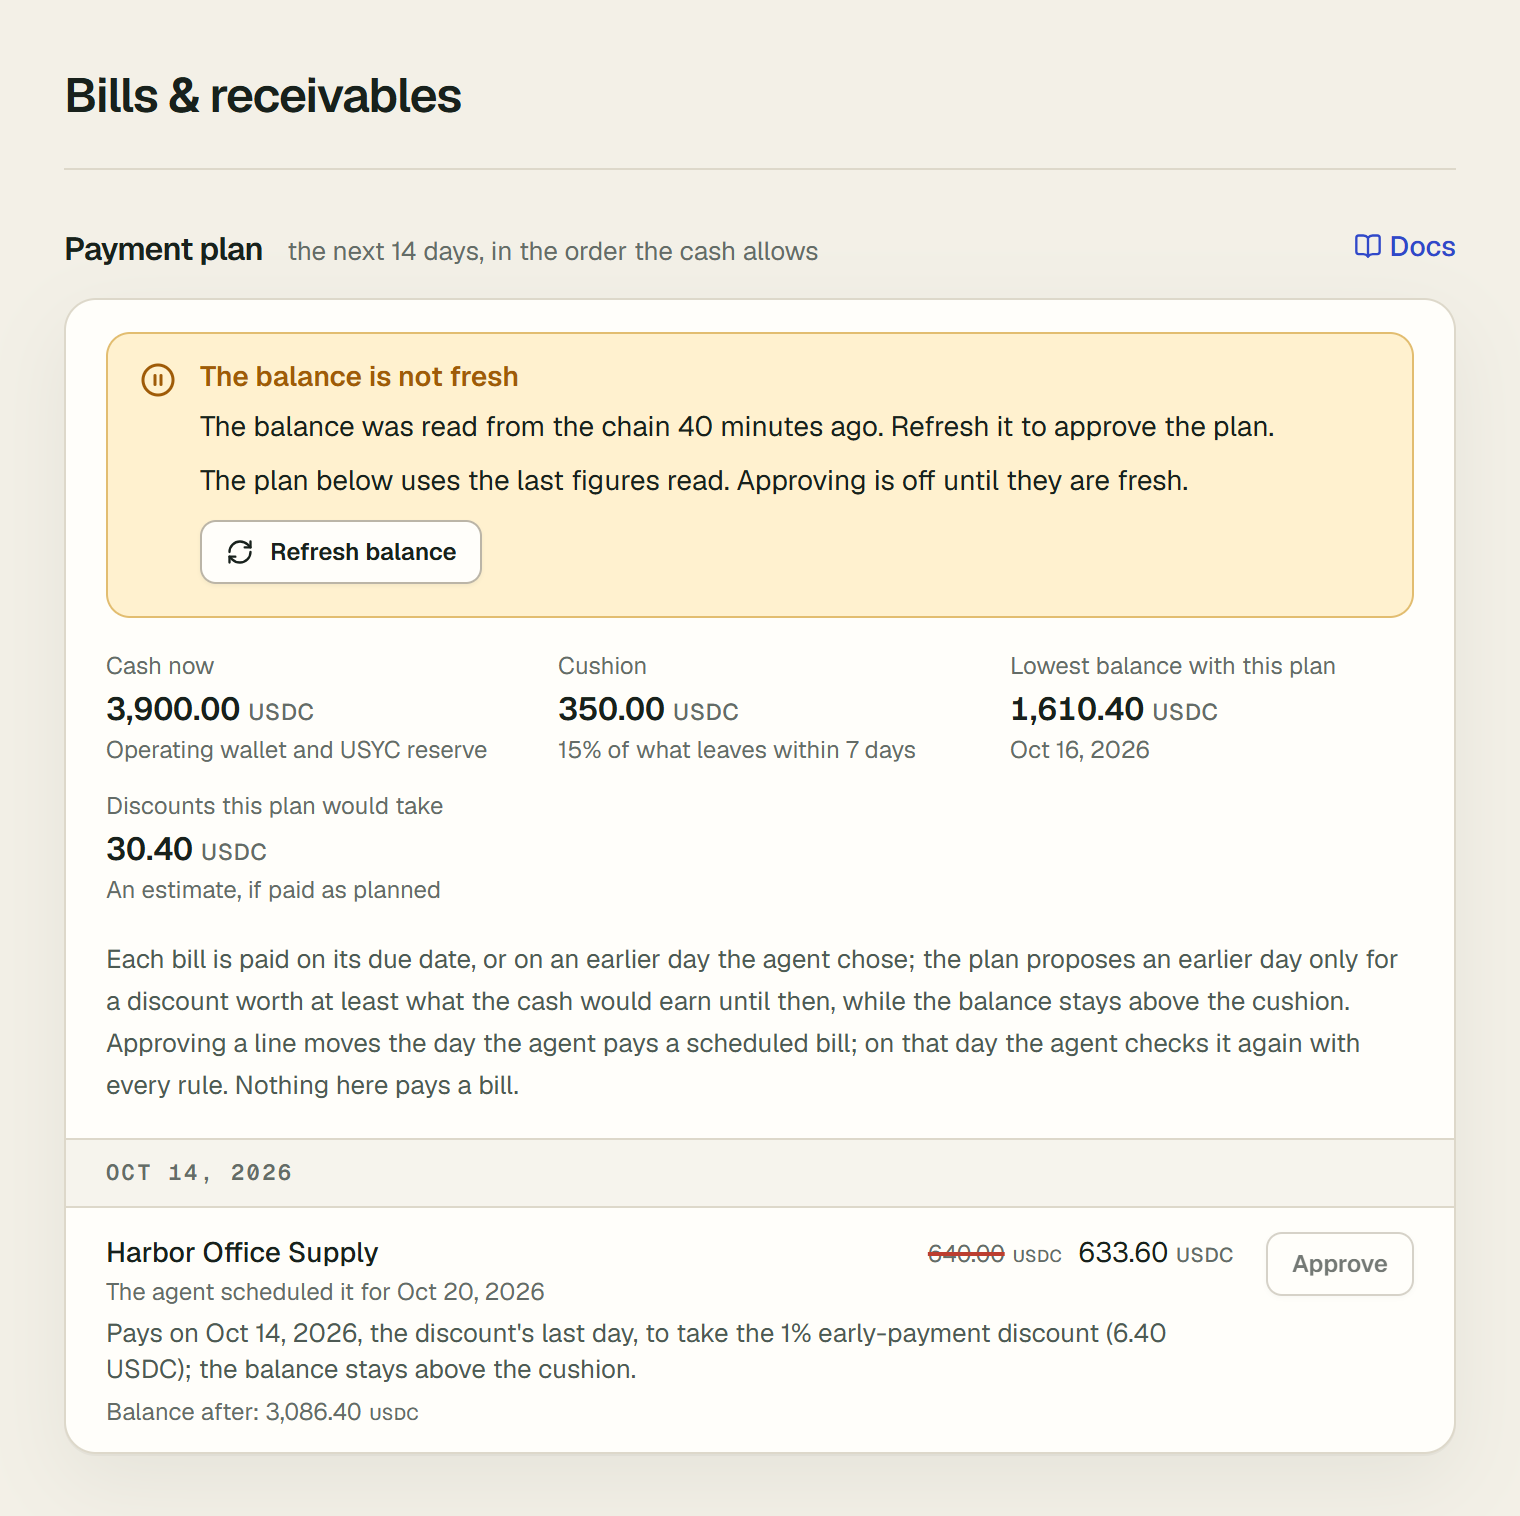
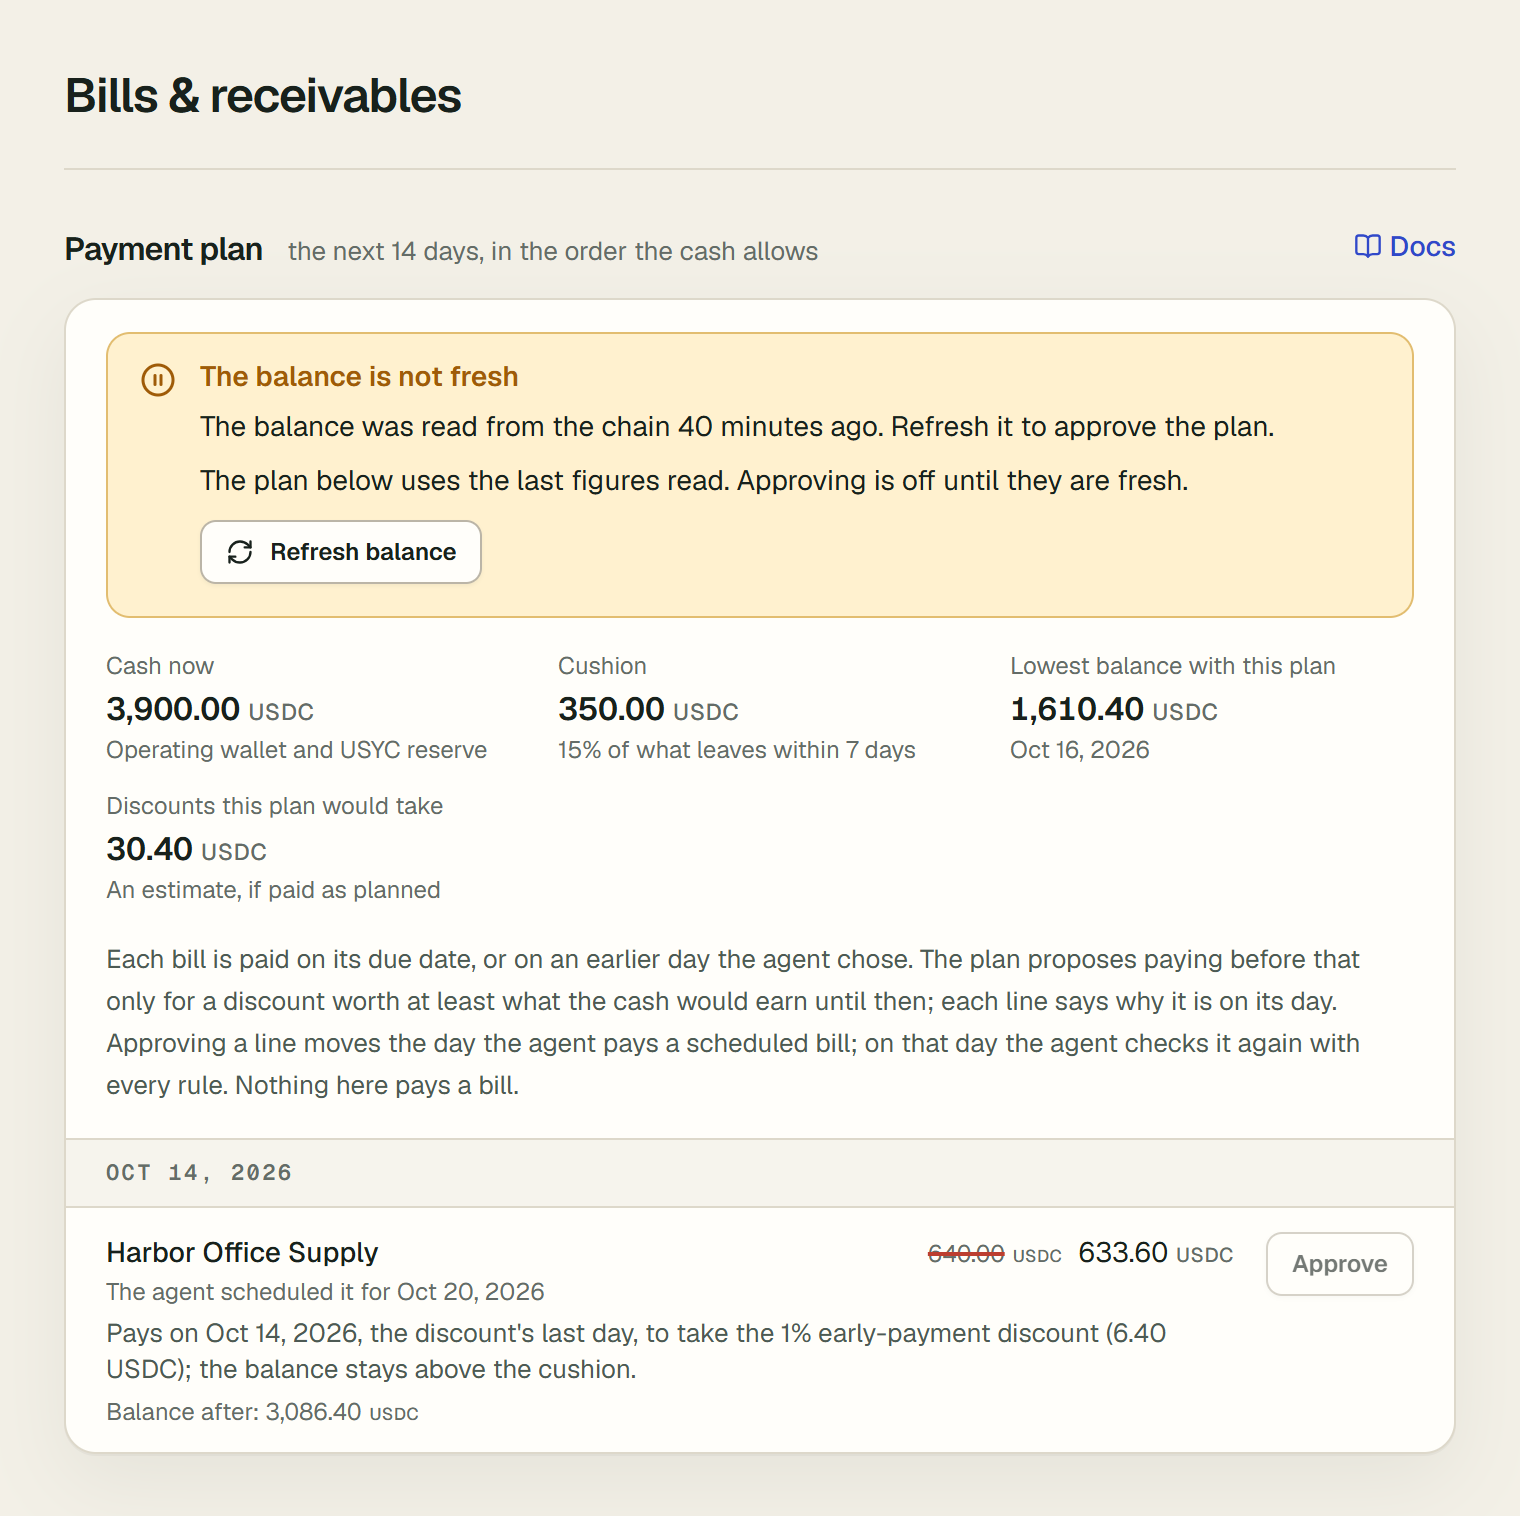
Say only the payment plan's rule that every move it offers keeps
The sentence above the plan's lines said an earlier day is proposed only
while the balance stays above the cushion. A discount day that is the only
way the cash covers the bill, and a bill brought back to its due date, are
both offered under the cushion, so the sentence contradicted their Approve.
It now says what holds of every move offered (paying before the due date or
the agent's day only for a discount worth at least the reserve's yield) and
leaves the cushion to each line's reason and mark.

The spec and ARCHITECTURE.md say so, and the guide's two screenshots that show
the sentence are taken again.

Changed region(s): [[0.0618, 0.6201, 0.9276, 0.6821]]

diff --git a/tests/payment-plan-ui.test.tsx b/tests/payment-plan-ui.test.tsx
@@ -58,6 +58,15 @@ const planOf = (fields: Partial<PaymentPlanInput> = {}) =>
     ...fields,
   });
 
+/**
+ * The section's rule: only what holds of every move it offers (P4). The cushion is left to each line's reason, since a
+ * bill brought back to its due date, and a discount day that is the only way the cash covers the bill, are moved
+ * whatever the cushion.
+ */
+const RULE =
+  "Each bill is paid on its due date, or on an earlier day the agent chose. The plan proposes paying before that only for a discount worth at least " +
+  "what the cash would earn until then; each line says why it is on its day.";
+
 const OUTCOMES: PlanOutcomes = { paid: 6, paidOnTime: 5, overdueNow: 1, discountsTaken: 12.5, moves: 2 };
 
 const render = (props: Partial<Parameters<typeof PaymentPlanSection>[0]> = {}) =>
@@ -79,8 +88,35 @@ describe("the payment plan section", () => {
     expect(words).toContain("An estimate, if paid as planned");
     expect(words).toContain("Nothing here pays a bill.");
     // The rule as the planner keeps it: never later than a day the agent chose, earlier only for a discount.
-    expect(words).toContain("Each bill is paid on its due date, or on an earlier day the agent chose; the plan proposes an earlier day only for a discount");
+    expect(words).toContain(RULE);
     expect(words).not.toMatch(/saved/i);
+  });
+
+  it("states only a rule every Approve it shows keeps, and leaves the cushion to each line: some moves go under it (P4)", () => {
+    // Paying early is the only way the cash covers the bill: the discount day is proposed whatever the cushion.
+    const freed = planOf({
+      operatingUsdc: 1000,
+      cushion: 500,
+      bills: [bill({ amount: 1010, dueDate: "2026-10-20T12:00:00.000Z", scheduledFor: "2026-10-20T00:00:00.000Z" })],
+    });
+    const freedMarkup = render({ plan: freed });
+    const freedWords = text(freedMarkup);
+    expect(freedWords).toContain("on its due date, Oct 20, 2026, the cash would not cover it.");
+    expect(freedWords).toContain("Leaves 489.80 USDC less than the cushion on Oct 15, 2026.");
+    expect(freedMarkup).toContain('aria-label="Approve paying Northwind Supply on Oct 15, 2026"');
+    // A day the agent chose after the due date is brought back to the due date whatever the cushion: not a day before it.
+    const back = planOf({
+      operatingUsdc: 1000,
+      cushion: 500,
+      bills: [bill({ amount: 900, discount: null, dueDate: "2026-10-13T12:00:00.000Z", scheduledFor: "2026-10-18T00:00:00.000Z" })],
+    });
+    const backMarkup = render({ plan: back });
+    expect(text(backMarkup)).toContain("Leaves 400.00 USDC less than the cushion on Oct 13, 2026.");
+    expect(backMarkup).toContain('aria-label="Approve paying Northwind Supply on Oct 13, 2026"');
+    for (const words of [freedWords, text(backMarkup)]) {
+      expect(words).toContain(RULE);
+      expect(words).not.toContain("while the balance stays above the cushion");
+    }
   });
 
   it("says a bill whose scheduled day has come is decided again by the agent, on the day its rule gives, with nothing to approve", () => {

diff --git a/src/components/vx/PaymentPlan.tsx b/src/components/vx/PaymentPlan.tsx
@@ -305,9 +305,12 @@ export function PaymentPlanSection({
           )}
           <PlanSummary plan={plan} />
           <p className="text-[0.8125rem] leading-relaxed text-ink-2">
-            Each bill is paid on its due date, or on an earlier day the agent chose; the plan proposes an earlier day only for a discount worth at least
-            what the cash would earn until then, while the balance stays above the cushion. Approving a line moves the day the agent pays a scheduled bill;
-            on that day the agent checks it again with every rule. Nothing here pays a bill.
+            {/* P4: only what holds of every move offered. A day the agent chose after the due date is brought back to the
+                due date, not before it; the cushion is left to each line, since it is not weighed for that, nor for a
+                discount day that is the only way the cash covers the bill. */}
+            Each bill is paid on its due date, or on an earlier day the agent chose. The plan proposes paying before that only for a discount worth at least
+            what the cash would earn until then; each line says why it is on its day. Approving a line moves the day the agent pays a scheduled bill; on that
+            day the agent checks it again with every rule. Nothing here pays a bill.
           </p>
           {canDecide
             ? approvable.length > 1 && (

diff --git a/docs/superpowers/specs/2026-10-11-payment-plan-design.md b/docs/superpowers/specs/2026-10-11-payment-plan-design.md
@@ -92,6 +92,13 @@ bill to the plan's day. It never pays anything itself.
 - A taken discount's line says the balance stays above the cushion, or until which day when it goes under it later
   in the window, or, when paying early is what lets the cash cover the bill, that the cash would not cover it on the
   day it would otherwise pay, so the sentence is true of the plan shown.
+- The section states above its lines only what holds of every move it offers: "Each bill is paid on its due date, or
+  on an earlier day the agent chose. The plan proposes paying before that only for a discount worth at least what the
+  cash would earn until then; each line says why it is on its day." A day the agent chose after the due date is
+  brought back to the due date, not before it, so the rule's "only" holds of that move too. The cushion is left to
+  each line's reason and its Under the cushion mark: the first version added "while the balance stays above the
+  cushion", which the Approve beside a discount day the cash needed, or a bill brought back to its due date, under the
+  cushion both, contradicted. Saying each exception there made the sentence longer than the rule it summed up.
 - Cost if wrong: a discount missed (one that would have needed another bill left short, or one on a bill the agent's
   limit has no room for on either day, which waits for a person on the agent's day), a person asked to approve the
   agent's own discount day where a later day's limit had room, the agent's early payment kept while the balance sits
@@ -259,8 +266,9 @@ appear in `GET /api/v1/ledger` and as `ledger.appended`, a moved bill's `schedul
   high risk or its limit lowered among them; both marked `changed`, so the page refreshes), a line's own checks, the
   creator refused unless sole approver, a batch applying only the passing lines, each weighed in the plan's order with
   the moves made before it, a write failing part way, and a cycle raised for today.
-- `tests/payment-plan-ui.test.tsx`: the section's words, the stale warning with approving off, the viewer without
-  Approve, the projected figures labelled, and the struck amount and a balance under the cushion said in words.
+- `tests/payment-plan-ui.test.tsx`: the section's words, its rule true beside the moves that go under the cushion (a
+  discount day the cash needs, a bill brought back to its due date), the stale warning with approving off, the viewer
+  without Approve, the projected figures labelled, and the struck amount and a balance under the cushion said in words.
 - `tests/payment-plan-input.test.ts`: the rows turned into the planner's input as the page and the command both read
   them, the reserve's rate and a milestone's contractor limit and screening among them; `tests/payment-plan-outcomes.test.ts`: the three measures.
 - The guide (`content/docs/guides/payment-plan.mdx`, Everyday work) with its screenshot (`payment-plan`, from

diff --git a/ARCHITECTURE.md b/ARCHITECTURE.md
@@ -1203,12 +1203,13 @@ agent's own earlier day, never later than the agent chose; a discount's last
 day only when the discount is worth at least the reserve's yield to the due
 date, the cash covers the bill then, no other line falls short, the spending
 limit has room for the billed amount and the balance stays at or above the
-cushion until the bill would otherwise pay, each check holding against the plan
+cushion until the bill would otherwise pay (not weighed when the cash would not
+cover the bill on that later day at all), each check holding against the plan
 and against the schedule with only that bill moved, the bill itself within the
 limit on its new day; bills the agent scheduled after their due dates are
-brought back one at a time; a discount day the agent chose itself is kept
-whatever it holds, and a scheduled bill whose day has come goes where the
-agent's own rule puts it at its next cycle, unmovable), walks
+brought back one at a time, whatever the cushion; a discount day the agent
+chose itself is kept whatever it holds, and a scheduled bill whose day has come
+goes where the agent's own rule puts it at its next cycle, unmovable), walks
 the days in the cash's order, marks a line the balance cannot cover as short
 without spending it, counting it in full as still owed, and previews each
 line's checks (payment limit, two approvals, screening, the daily and 7-day
